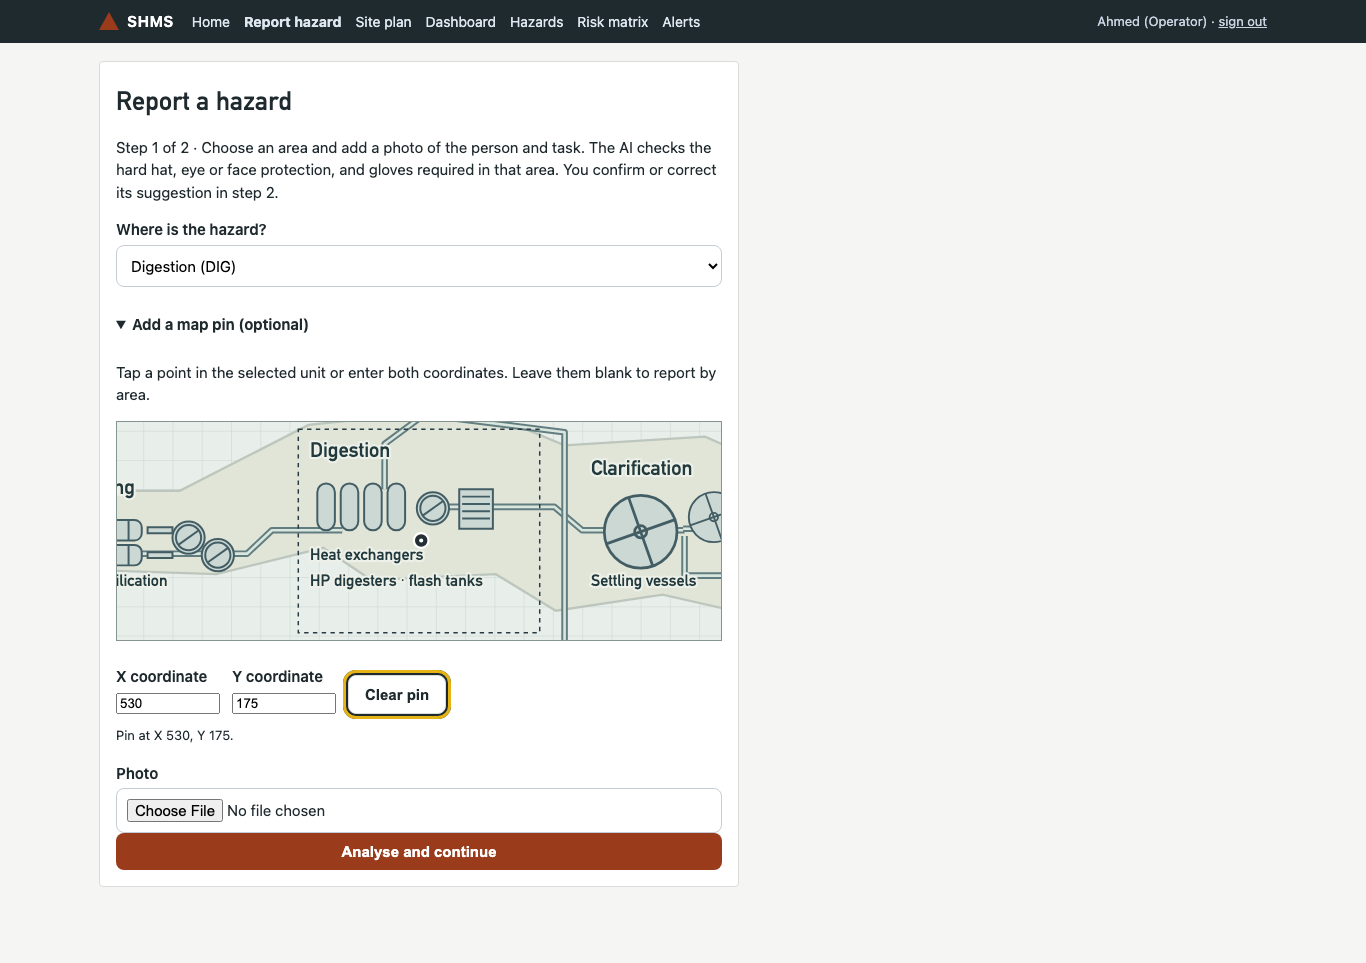
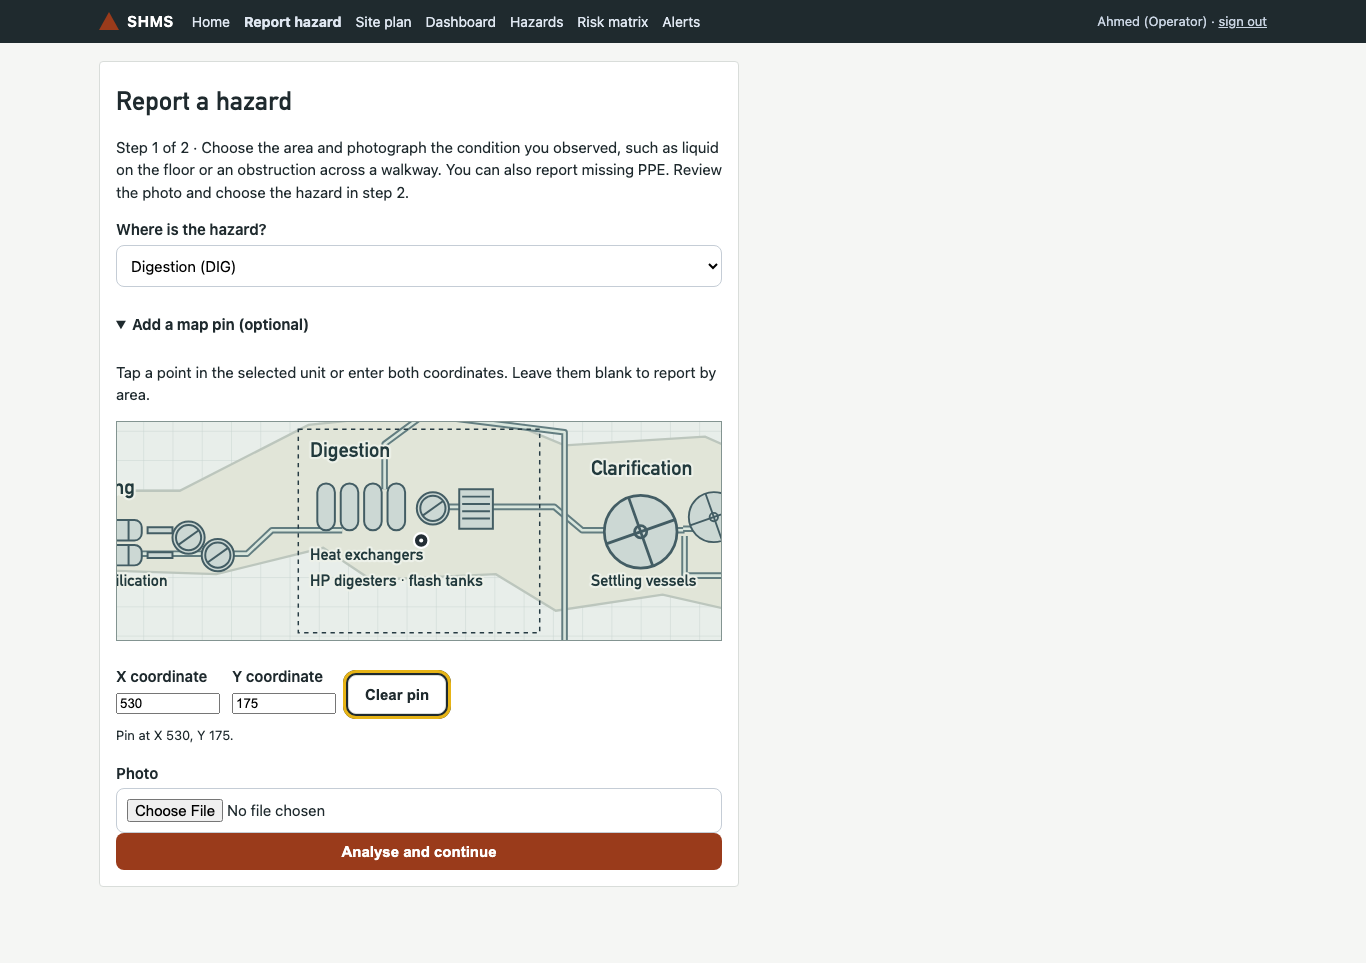
Support physical-condition reporting and publish independent spill challenge

Changed region(s): [[0.0922, 0.1246, 0.5227, 0.2181]]

diff --git a/shms/templates/confirm.html b/shms/templates/confirm.html
@@ -13,7 +13,7 @@
     {% else %}<p class="muted">No photo attached.</p>{% endif %}
   </div>
   <div class="card">
-    <h2>AI check</h2>
+    <h2>Photo review</h2>
     {% if h.ai_error %}
       <div class="alert err small">The AI could not analyse this photo ({{ h.ai_error }}). Please classify it yourself.</div>
     {% elif not h.ai_model %}
@@ -28,12 +28,11 @@
     {% endif %}
     {% set exp = suggestions | selectattr('experimental') | list %}
     {% if exp %}
-    <div class="alert info small"><strong>Experimental check</strong> (tested only on synthetic warehouse images, not on
-      site photos): {% for s in exp %}{{ s.code | cat }}{% if not loop.last %}; {% endif %}{% endfor %}. Choose it below
+    <div class="alert info small"><strong>Experimental check</strong> (experimental model; refinery accuracy is unknown): {% for s in exp %}{{ s.code | cat }}{% if not loop.last %}; {% endif %}{% endfor %}. Choose it below
       only if you can see it yourself.</div>
     {% endif %}
     {% for s in suggestions if not s.required and not s.experimental %}<p class="muted small">Also seen, not checked here (not required in this area or not released): {{ s.code | cat }}</p>{% endfor %}
-    {% if h.area.unchecked_ppe %}<p class="muted small">Not checked by the AI here: {{ h.area.unchecked_ppe | join(', ') }}, and any hazard other than missing PPE.</p>{% endif %}
+    {% if h.area.unchecked_ppe %}<p class="muted small">Not checked by the AI here: {{ h.area.unchecked_ppe | join(', ') }}.</p>{% endif %}
     {% if h.ai_model %}<p class="muted small">Model {{ h.ai_model }} · {{ (h.ai_latency_ms/1000)|round(1) }} s. Checked against the PPE this area requires. AI evaluated on the SH17 held-out test set.</p>{% endif %}
   </div>
 </div>
@@ -41,11 +40,12 @@
 <form class="card" method="post" action="/hazards/{{ h.id }}/confirm" enctype="multipart/form-data">
       <input type="hidden" name="csrf_token" value="{{ csrf_token }}">
   <h2>Step 2 of 2 – confirm and score</h2>
-  <p class="muted small">Choose the hazard you observed, then rate its worst credible consequence. You can change the AI suggestion.</p>
+  <p class="muted small">Choose the hazard you observed, then rate its worst credible consequence. Check the floor and access route yourself. The experimental model missed liquid in all five labelled indoor water photos in a separate test.</p>
   <label for="cat">Hazard type</label>
   <select id="cat" name="category_code" required>
+    <option value="" disabled {% if not top %}selected{% endif %}>Choose the observed hazard</option>
     {% for code in h.area.report_codes %}{% set c = taxonomy.get(code) %}
-      <option value="{{ c.code }}" data-cons="{{ c.default_consequence }}" {% if top and top.code == c.code %}selected{% endif %}>{{ c.name }}{% if c.experimental %} (experimental){% endif %}{% if taxonomy.release_note(c.code) %} (AI: unverified suggestion){% endif %}{% if top and top.code == c.code %} (AI suggestion){% endif %}</option>
+      <option value="{{ c.code }}" data-cons="{{ c.default_consequence }}" {% if top and top.code == c.code %}selected{% endif %}>{{ c.name }}{% if taxonomy.release_note(c.code) %} (AI: unverified suggestion){% endif %}{% if top and top.code == c.code %} (AI suggestion){% endif %}</option>
     {% endfor %}
   </select>
   <p class="muted small">PPE required in {{ h.area.name }}: {{ h.area.check_codes | map('ppe') | join(', ') }}.</p>
@@ -59,12 +59,12 @@
   <p class="muted small">Likelihood is estimated automatically from similar hazards reported in {{ h.area.name }} over the last {{ risk.lookback_days() }} days. <a href="/matrix" target="_blank">See the risk matrix</a>.</p>
 
   <label for="desc">What did you see? (optional)</label>
-  <textarea id="desc" name="description" placeholder="e.g. contractor opening caustic drain valve without face shield near pump P-201"></textarea>
+  <textarea id="desc" name="description" placeholder="e.g. liquid pooled across the walkway beside the digestion pump"></textarea>
 
   <label style="display:flex;gap:8px;align-items:center;font-weight:600"><input type="checkbox" id="fixed" name="fixed_on_spot" value="true" style="width:auto"> I already fixed it on the spot</label>
   <div id="fixfields" class="hide">
     <label for="act">Action taken</label>
-    <textarea id="act" name="closure_action" placeholder="e.g. stopped work, issued face shield, briefed crew"></textarea>
+    <textarea id="act" name="closure_action" placeholder="Describe the corrective action taken"></textarea>
     <label for="cphoto">Closing photo (optional)</label>
     <input id="cphoto" type="file" name="closure_photo" accept="image/*" capture="environment">
   </div>

diff --git a/shms/templates/hazards.html b/shms/templates/hazards.html
@@ -11,7 +11,7 @@
   <div><label for="filter-level">Risk level</label><select id="filter-level" name="level"><option value="">All</option>
     {% for l in ('Extreme','High','Medium','Low') %}<option {% if f.level == l %}selected{% endif %}>{{ l }}</option>{% endfor %}</select></div>
   <div><label for="filter-category">Type</label><select id="filter-category" name="category"><option value="">All</option>
-    {% for code in taxonomy.enabled_codes() %}{% set c = taxonomy.get(code) %}<option value="{{ c.code }}" {% if f.category == c.code %}selected{% endif %}>{{ c.name }}</option>{% endfor %}</select></div>
+    {% for code in taxonomy.manual_codes() + taxonomy.enabled_codes() %}{% set c = taxonomy.get(code) %}<option value="{{ c.code }}" {% if f.category == c.code %}selected{% endif %}>{{ c.name }}</option>{% endfor %}</select></div>
   <div style="flex:0"><button class="btn" type="submit">Filter</button></div>
 </form>
 <div class="card" style="overflow-x:auto">

diff --git a/shms/templates/report.html b/shms/templates/report.html
@@ -6,7 +6,7 @@
 <link rel="stylesheet" href="/static/pins.css">
 <div class="card" style="max-width:640px">
   <h1>Report a hazard</h1>
-  <p>Step 1 of 2 · Choose an area and add a photo of the person and task. The AI checks the hard hat, eye or face protection, and gloves required in that area. You confirm or correct its suggestion in step 2.</p>
+  <p>Step 1 of 2 · Choose the area and photograph the condition you observed, such as liquid on the floor or an obstruction across a walkway. You can also report missing PPE. Review the photo and choose the hazard in step 2.</p>
   {% if error %}<div class="alert err" role="alert">{{ error }}</div>{% endif %}
   <form method="post" action="/report" enctype="multipart/form-data" id="hazard-report">
     <input type="hidden" name="csrf_token" value="{{ csrf_token }}">

diff --git a/shms/templates/monitoring.html b/shms/templates/monitoring.html
@@ -15,7 +15,7 @@ A falling acceptance rate is an early warning of drift – new cameras, lighting
   </div>
   {% endfor %}
   <div class="kpi"><div class="v">{{ m.reports }}</div><div class="l">AI-analysed reports</div></div>
-  <div class="kpi"><div class="v">{{ m.missed }}</div><div class="l">AI saw nothing, reporter found PPE breach</div></div>
+  <div class="kpi"><div class="v">{{ m.missed }}</div><div class="l">Confirmed reports without a PPE suggestion</div></div>
 </div>
 <br>
 <div class="grid two">

diff --git a/evaluation/external_floor_liquid.py b/evaluation/external_floor_liquid.py
@@ -1,0 +1,109 @@
+"""Positive-only challenge on the version-pinned Mendeley indoor water series."""
+
+import argparse
+import hashlib
+import json
+import tempfile
+import zipfile
+from pathlib import Path
+
+import httpx
+
+from evaluation.metrics import wilson_ci
+from evaluation.sh17 import dhash
+from shms.detection.conditions_vlm import FROZEN_PROMPT, ask
+
[1 lines of base64/hex data omitted]
+ROOT = "Stagnant Water and Wet Surface Dataset"
+MODEL = "qwen2.5vl:7b"
+URL = "http://localhost:11434"
+
+
+def positive_summary(rows: list[dict]) -> dict:
+    n = len(rows)
+    hits = sum(row.get("detected") is True for row in rows)
+    return {
+        "eligible_tested": n,
+        "detected": hits,
+        "errors": sum("error" in row for row in rows),
+        "recall": hits / n if n else None,
+        "wilson95": wilson_ci(hits, n),
+        "precision": None,
+        "specificity": None,
+    }
+
+
+def select_images(archive: Path, directory: Path) -> tuple[int, list[tuple[str, Path]]]:
+    with archive.open("rb") as stream:
+        if hashlib.file_digest(stream, "sha256").hexdigest() != ARCHIVE_SHA:
+            raise ValueError("Expected Mendeley v4 December archive (see docs/external_floor_liquid.md)")
+    images = []
+    with zipfile.ZipFile(archive) as source:
+        if source.read(f"{ROOT}/classes.txt").decode().strip().splitlines() != ["water", "wet surface"]:
+            raise ValueError("Unexpected label mapping")
+        for member in source.namelist():
+            filename = Path(member)
+            if filename.parent.as_posix() != f"{ROOT}/Indoor/Top View" or filename.suffix.lower() != ".jpeg":
+                continue
+            labels = source.read(str(filename.with_suffix(".txt"))).decode().splitlines()
+            if not labels:
+                continue
+            for line in labels:
+                cls, *box = line.split()
+                if cls not in {"0", "1"} or len(box) != 4 or not all(0 <= float(v) <= 1 for v in box):
+                    raise ValueError(f"Invalid box in {member}")
+            path = directory / filename.name
+            data = source.read(member)
+            path.write_bytes(data)
+            images.append((hashlib.sha256(data).hexdigest(), path))
+    selected = []
+    hashes = []
+    for digest, path in sorted(images):
+        fingerprint = dhash(path)
+        if all((fingerprint ^ other).bit_count() > 4 for other in hashes):
+            hashes.append(fingerprint)
+            selected.append((digest, path))
+            if len(selected) == 32:
+                break
+    return len(images), selected
+
+
+def main() -> None:
+    parser = argparse.ArgumentParser(description=__doc__)
+    parser.add_argument("archive", type=Path)
+    parser.add_argument("output", type=Path, help="New JSON file (existing evidence is never overwritten)")
+    args = parser.parse_args()
+    if args.output.exists():
+        parser.error("Choose a new output file")
+    with tempfile.TemporaryDirectory() as directory:
+        eligible, selected = select_images(args.archive, Path(directory))
+        if not selected:
+            raise ValueError("No eligible labelled indoor images")
+        response = httpx.get(f"{URL}/api/tags")
+        response.raise_for_status()
+        digest = next(m["digest"] for m in response.json()["models"] if m["name"] == MODEL)
+        rows = []
+        for sha, path in selected:
+            row = {"file": path.name, "sha256": sha}
+            try:
+                row["detected"] = ask(path, FROZEN_PROMPT, MODEL, URL)["spill"]
+            except (httpx.HTTPError, ValueError, KeyError) as exc:
+                row["error"] = type(exc).__name__
+            rows.append(row)
+    result = {
+        "dataset_doi": "10.17632/y6zyrnxbfm.4",
+        "archive_sha256": ARCHIVE_SHA,
+        "eligible_before_selection": eligible,
+        "model": MODEL,
+        "model_digest": digest,
+        "prompt": FROZEN_PROMPT,
+        "predictions": rows,
+        "summary": positive_summary(rows),
+    }
+    args.output.parent.mkdir(parents=True, exist_ok=True)
+    with args.output.open("x") as out:
+        out.write(json.dumps(result, indent=2) + "\n")
+
+
+if __name__ == "__main__":
+    main()

diff --git a/tests/test_experimental_conditions.py b/tests/test_experimental_conditions.py
@@ -5,7 +5,7 @@ import pytest
 from shms import services, taxonomy
 from shms.detection import conditions_vlm
 from shms.models import Role, Status
-from shms.services import Confirmation, WorkflowError
+from shms.services import Confirmation
 from shms.settings import override_settings
 from tests.conftest import jpeg_bytes, login
 from tests.test_api import REPORTER, h
@@ -33,18 +33,20 @@ def test_experimental_categories_are_never_ai_released():
     assert all(taxonomy.get(c).experimental for c in EXP)
 
 
-def test_flag_off_by_default_hides_categories_and_never_calls_the_model(client, monkeypatch, settings):
+def test_flag_off_by_default_allows_manual_reports_and_never_calls_the_model(client, monkeypatch, settings):
     assert settings.experimental_conditions is False
     monkeypatch.setattr(conditions_vlm, "ask", lambda *a, **k: pytest.fail("model must not be called"))
     page = client.get(_report_via_form(client)).text
-    assert 'value="floor_liquid"' not in page and "Experimental" not in page
+    assert 'value="floor_liquid"' in page and "Experimental check</strong>" not in page
 
 
-def test_flag_off_rejects_confirming_an_experimental_type(empty_db):
+@pytest.mark.parametrize("code", [*EXP, "open_panel", "floor_opening", "surface_corrosion", "other_condition"])
+def test_manual_condition_needs_no_model(empty_db, code):
     rep = users(empty_db)[Role.REPORTER][0]
     d = services.create_draft(empty_db, rep, area(empty_db), None, None)
-    with pytest.raises(WorkflowError):
-        services.confirm(empty_db, d, rep, Confirmation("floor_liquid", 3))
+    hz = services.confirm(empty_db, d, rep, Confirmation(code, 3))
+    assert hz.status == Status.OPEN and hz.category_code == code
+    assert hz.ai_top_code is None and hz.ai_accepted is None
 
 
 def test_flag_on_shows_a_fixed_wording_note_never_preselected(client, monkeypatch, flag_on):
@@ -82,3 +84,12 @@ def test_flag_on_reporter_can_confirm_an_experimental_type(empty_db, flag_on):
     d = services.create_draft(empty_db, rep, area(empty_db), None, None)
     hz = services.confirm(empty_db, d, rep, Confirmation("floor_liquid", 3))
     assert hz.status == Status.OPEN and hz.category_code == "floor_liquid"
+
+
+def test_api_experimental_observation_uses_only_visible_condition_language(client, monkeypatch, flag_on):
+    monkeypatch.setattr(conditions_vlm, "ask", lambda *a: {"spill": True, "obstruction": False, "explanation": "acid"})
+    report_url = _report_via_form(client)
+    result = client.get(f"/api/hazards/{report_url.split('/')[2]}", headers=h(REPORTER)).json()
+    observation = next(s for s in result["ai_suggestions"] if s.get("experimental"))
+    assert observation["code"] == "floor_liquid"
+    assert "acid" not in observation["explanation"]

diff --git a/docs/screenshots/audit_ui.py b/docs/screenshots/audit_ui.py
@@ -139,9 +139,9 @@ def check_workflow(audit: Audit, base_url: str) -> None:
     page.locator("form[action='/report'] button[type=submit]").click()
     page.wait_for_url("**/confirm")
     audit.check("confirm")
-    page.select_option("#cat", value="no_gloves")
+    page.select_option("#cat", value="floor_liquid")
     page.locator("input[name='consequence'][value='2']").check()
-    page.locator("#desc").fill("Synthetic demonstration: gloves missing during the task.")
+    page.locator("#desc").fill("Synthetic demonstration: pooled liquid on the digestion walkway.")
     page.get_by_role("button", name="Submit report").click()
     expect(page.get_by_text("Report submitted.", exact=False)).to_be_visible()
     hazard_url = page.url.split("?")[0]
@@ -152,14 +152,14 @@ def check_workflow(audit: Audit, base_url: str) -> None:
     sign_out(page)
     sign_in(page, base_url, "khalid")
     page.goto(hazard_url)
-    page.locator("#action").fill("Issued replacement gloves and checked their fit.")
+    page.locator("#action").fill("Isolated the affected walkway and arranged cleanup.")
     page.get_by_role("button", name="Close hazard", exact=True).click()
     expect(page.locator("h1 .st")).to_have_text("pending verification")
     audit.check("awaiting_verification")
     sign_out(page)
     sign_in(page, base_url, "sara")
     page.goto(hazard_url)
-    page.locator("#vn").fill("Checked the replacement gloves at the task location.")
+    page.locator("#vn").fill("Checked the walkway after the cleanup.")
     page.get_by_role("button", name="Verify and close").click()
     expect(page.locator("h1 .st")).to_have_text("closed")
     audit.check("verified_closure")

diff --git a/shms/detection/conditions_vlm.py b/shms/detection/conditions_vlm.py
@@ -1,6 +1,6 @@
 """EXPERIMENTAL: unsafe-condition check (liquid on the floor, object obstructing a walkway) with a local VLM.
 
-Not part of the release gate. Evaluated only on synthetic warehouse images (docs/unsafe_conditions_plan.md). The
+Not part of the release gate. See docs/unsafe_conditions_plan.md and docs/external_floor_liquid.md for evaluation scope. The
 model is never asked what a liquid is, and "obstructed" only counts when a walkway is visible in the photo.
 """
 
@@ -76,8 +76,7 @@ FROZEN_PROMPT = "c2"  # frozen after dev tuning, evaluated once on the test spli
 
 def observe(image: Path) -> list[dict]:
     """Experimental observations for a report, as suggestion records marked experimental. Never raises: a failed
-    or unreachable model gives no observation and never blocks a report. The model's free-text explanation is kept
-    for traceability only and is not shown to the reporter (it could name a substance)."""
+    or unreachable model gives no observation and never blocks a report. Only fixed condition codes are retained."""
     import logging
 
     from ..settings import get_settings
@@ -96,7 +95,7 @@ def observe(image: Path) -> list[dict]:
                     "code": code,
                     "confidence": 0.0,
                     "evidence": [],
-                    "explanation": a.get("explanation", ""),
+                    "explanation": "",
                     "required": False,
                     "experimental": True,
                 }

diff --git a/tests/test_workflow.py b/tests/test_workflow.py
@@ -191,21 +191,12 @@ def test_ai_suggestion_filtered_by_area_requirements(empty_db):
     assert flags == {"no_hi_vis_vest": False, "no_gloves": True}
 
 
-def test_taxonomy_contains_only_ai_detected_hazards_plus_flagged_experimental_ones():
-    # Requirement change (Phase 4): two EXPERIMENTAL unsafe-condition types exist behind SHMS_EXPERIMENTAL_CONDITIONS.
-    # Every other hazard type is still AI-detected and evaluated; experimental ones are never AI-released.
+def test_physical_conditions_do_not_expand_released_ppe_or_experimental_inference():
     from shms import taxonomy
 
-    cats = taxonomy.categories().values()
-    assert {c.code for c in cats if not c.experimental} == {
-        "no_hard_hat",
-        "no_eye_protection",
-        "no_gloves",
-        "no_hi_vis_vest",
-    }
-    assert all(c.ai for c in cats if not c.experimental)
-    assert {c.code for c in cats if c.experimental} == {"floor_liquid", "walkway_obstruction"}
-    assert not any(c.ai for c in cats if c.experimental)
+    assert set(taxonomy.ai_codes()) == {"no_hard_hat", "no_eye_protection", "no_gloves", "no_hi_vis_vest"}
+    assert {c.code for c in taxonomy.categories().values() if c.experimental} == {"floor_liquid", "walkway_obstruction"}
+    assert all(not taxonomy.get(code).ai for code in taxonomy.manual_codes())
 
 
 def test_database_rejects_invalid_values(empty_db):

diff --git a/shms/taxonomy.py b/shms/taxonomy.py
@@ -18,8 +18,7 @@ class Category:
     default_consequence: int
     why: str = ""
     ppe: str = ""
-    # EXPERIMENTAL categories (unsafe conditions) are never AI-released and only exist when
-    # SHMS_EXPERIMENTAL_CONDITIONS=1 (see docs/unsafe_conditions_plan.md).
+    # Eligible for an optional experimental observation as well as manual reporting.
     experimental: bool = False
 
 
@@ -64,13 +63,9 @@ def grouped() -> dict[str, list[Category]]:
     return out
 
 
-def experimental_codes() -> list[str]:
-    """Experimental hazard types, available only when the feature flag is on."""
-    from .settings import get_settings
-
-    if not get_settings().experimental_conditions:
-        return []
-    return [c.code for c in categories().values() if c.experimental]
+def manual_codes() -> list[str]:
+    """Physical conditions a reporter can select regardless of model availability."""
+    return [c.code for c in categories().values() if not c.ai]
 
 
 def release_note(code: str) -> str | None:

diff --git a/shms/web/api.py b/shms/web/api.py
@@ -46,6 +46,11 @@ class ReasonIn(BaseModel):
 
 
 def hazard_out(h: Hazard) -> dict:
+    suggestions = json.loads(h.ai_suggestions or "[]")
+    for observation in suggestions:
+        if observation.get("experimental"):
+            # Older reports stored free text which could speculate about the liquid.
+            observation["explanation"] = ""
     return {
         "id": h.id,
         "status": h.status.value,
@@ -58,7 +63,7 @@ def hazard_out(h: Hazard) -> dict:
         "ai_model": h.ai_model,
         "ai_top_code": h.ai_top_code,
         "ai_latency_ms": h.ai_latency_ms,
-        "ai_suggestions": json.loads(h.ai_suggestions or "[]"),
+        "ai_suggestions": suggestions,
         "ai_accepted": h.ai_accepted,
         "consequence": h.consequence,
         "likelihood": h.likelihood,

diff --git a/shms/main.py b/shms/main.py
@@ -55,7 +55,7 @@ def create_app(database_url: str | None = None, seed_demo: bool = True) -> FastA
             threading.Thread(target=_warm_up, daemon=True).start()
         yield
 
-    app = FastAPI(title="Site Hazard Management System (SHMS)", version="1.2.0", lifespan=lifespan)
+    app = FastAPI(title="Site Hazard Management System (SHMS)", version="1.3.0", lifespan=lifespan)
     settings.upload_dir.mkdir(parents=True, exist_ok=True)
     app.mount("/static", StaticFiles(directory=str(PACKAGE_DIR / "static")), name="static")
     app.middleware("http")(telemetry.timing_middleware)
